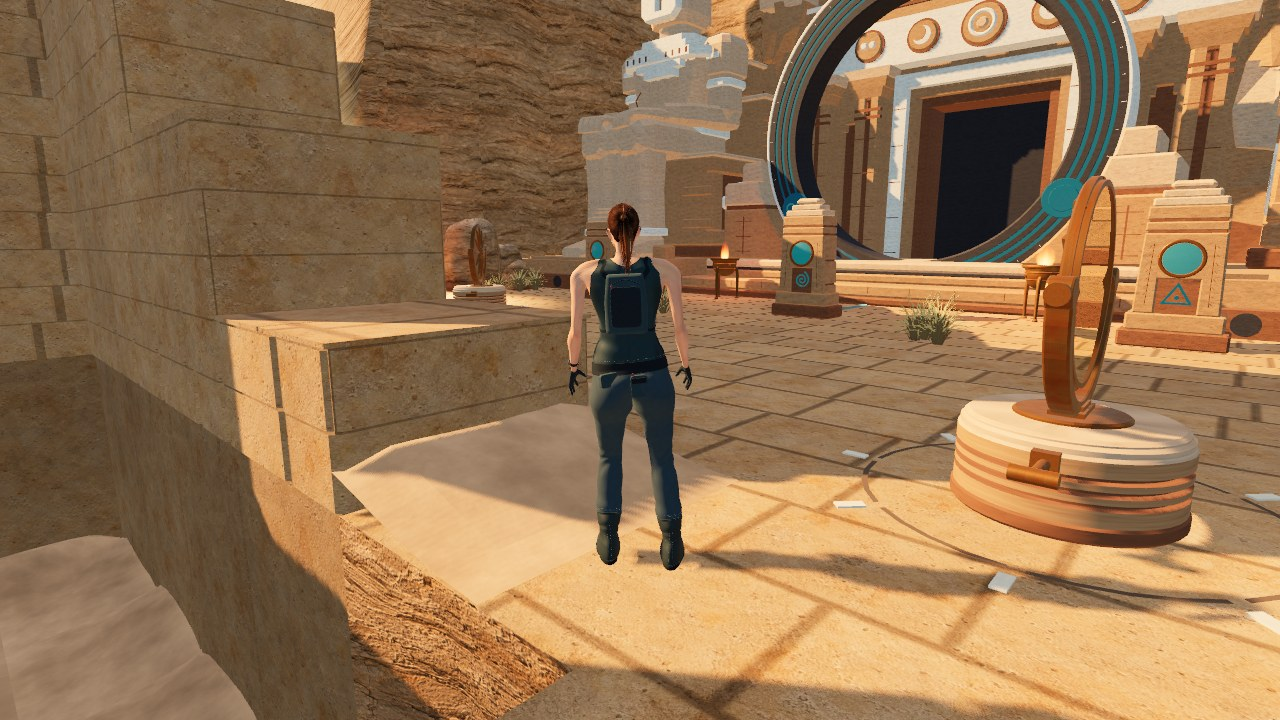
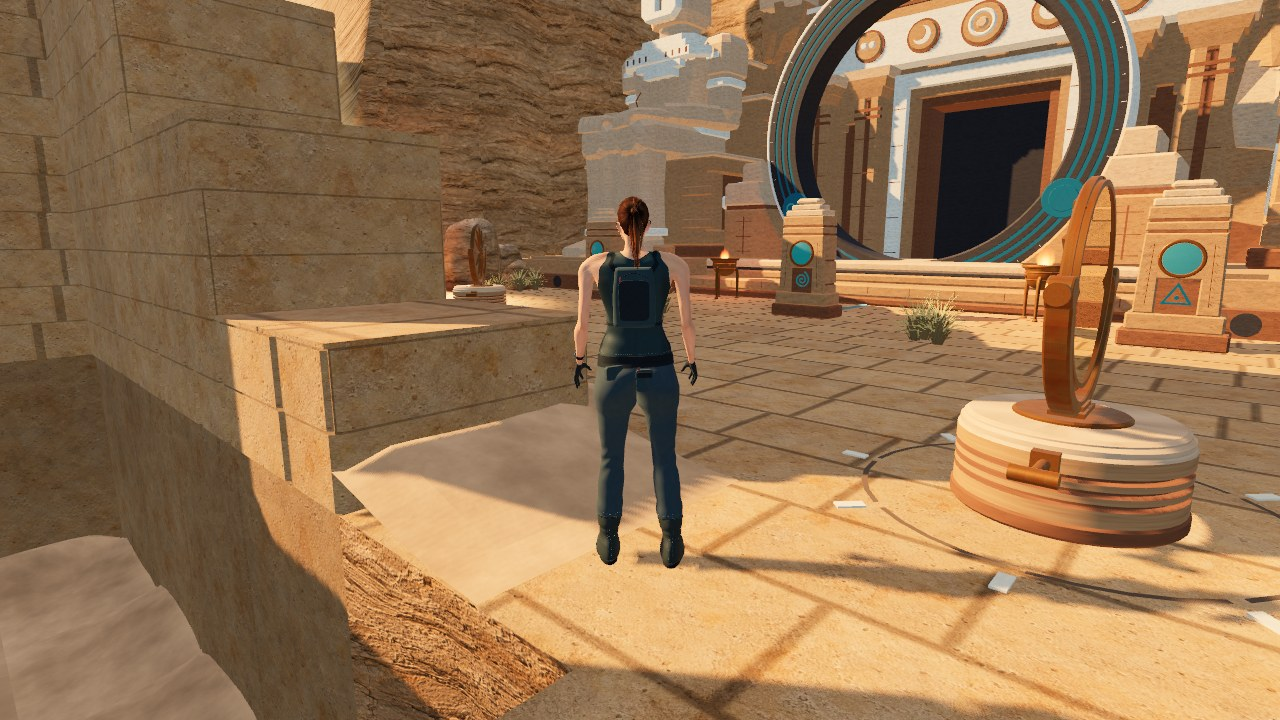
Straighten Nyra's knees at rest and lighten her weight shift

diff --git a/game/animation/locomotion.js b/game/animation/locomotion.js
@@ -154,15 +154,15 @@ export function locomotion(pose, root, hero, dt, { turnRate, accel }) {
     ((this.weightSide || 1) * idle - (this.weight || 0)) *
       (1 - Math.exp(-dt / 0.8));
   const weight = this.weight;
-  root.sway += 0.045 * weight;
-  add(pose, "hips", 0, 0, -0.1 * weight);
-  add(pose, "spine", idle * breathe, 0, 0.065 * weight);
+  root.sway += 0.02 * weight;
+  add(pose, "hips", 0, 0, -0.035 * weight);
+  add(pose, "spine", idle * breathe, 0, 0.022 * weight);
   add(
     pose,
     "head",
     -idle * breathe,
     idle * Math.sin(t * 0.37) * 0.1,
-    -0.012 * weight,
+    -0.008 * weight,
   );
   add(pose, "leftUpperArm", idle * Math.sin(t * 1.1) * 0.016);
   add(pose, "rightUpperArm", idle * Math.sin(t * 1.1 + 0.5) * 0.016, 0, 0);

diff --git a/game/animation/feet.js b/game/animation/feet.js
@@ -764,8 +764,11 @@ export const feet = {
       const hip = leg.upper.getWorldPosition(new THREE.Vector3()),
         knee = leg.lower.getWorldPosition(new THREE.Vector3()),
         ankle = leg.foot.getWorldPosition(new THREE.Vector3());
+      // A little slack keeps the stride's knees soft; standing, she straightens all but 3 mm.
       const length =
-        hip.distanceTo(knee) + knee.distanceTo(ankle) - mix(0.012, 0.009, run);
+        hip.distanceTo(knee) +
+        knee.distanceTo(ankle) -
+        mix(mix(0.003, 0.012, moving), 0.009, run);
       const destination = at
         .clone()
         .sub(leg.palm.clone().applyQuaternion(rotation));

diff --git a/receipts/verification-idle-posture/README.md b/receipts/verification-idle-posture/README.md
@@ -13,11 +13,15 @@ The owner compared Nyra standing still with a reference frame from another game,
 ## What changed
 
 - `game/animation/feet.js`: at rest the feet plant 0.32 m apart (`STANCE`, half the distance) instead of the legs' own 0.2 m, the left a little ahead, both turned out a little; once she has stood still for 0.6 s, a foot more than 5 cm short of that base steps out to it, one foot at a time.
-- `game/animation/locomotion.js`: standing, she settles her weight on one leg and moves it to the other every 6 to 13 s (a deterministic draw), easing over about a second: her hips shift 4.5 cm over the standing leg and drop on the free side, and her spine and head lean back towards level. The idle sway that rocked her hips continuously is gone. Her arms hang 0.08 rad further out and her elbows bend 0.2 rad more.
+- `game/animation/locomotion.js`: standing, she settles her weight on one leg and moves it to the other every 6 to 13 s (a deterministic draw), easing over about a second: her hips shift over the standing leg and drop a little on the free side, and her spine and head lean back towards level. The idle sway that rocked her hips continuously is gone. Her arms hang 0.08 rad further out and her elbows bend 0.2 rad more.
+
+## Straight knees, a lighter shift
+
+The owner still found her crooked at rest, and the first pass showed why: standing, both knees bent about 20°. The feet's solve lowers the hips until each stance leg is 12 mm short of straight (`feet.js`), slack that keeps the stride's knees soft but left her half crouched when still. Standing, the slack is now 3 mm, so the standing leg bends about 10° and the free one about 19°, against 20° and 21° before ([public release](data/joints-before-public.json), [after](data/joints-after.json)). The weight shift is lighter too: the hips move 2 cm over the standing leg and drop 2° on the free side, the spine and head lean back by about half that. [Before and after](frames/compare-straight-knees.jpg): behind, then the side.
 
 ## Results
 
-Measured in the model's frame ([public release](data/before-public.json), [after](data/after.json)): the feet stand 0.31 m apart instead of 0.20, the hands hang 0.26 to 0.30 m out from the centre instead of 0.24, the elbows bend 30° instead of 19°, and the hips sit 1.8 cm over the standing leg. Frames: [behind](frames/back-after.jpg) and [three quarters](frames/three-quarter-after.jpg), against [behind](frames/back-before.jpg) and [three quarters](frames/three-quarter-before.jpg) before. The [animation contracts](data/animation-check.json) pass 62 of 62, the stride, turning, landing and support checks among them.
+Measured in the model's frame ([public release](data/before-public.json), [after](data/after.json)): the feet stand 0.31 m apart instead of 0.20, the hands hang 0.26 to 0.30 m out from the centre instead of 0.24, the elbows bend 30° instead of 19°, and the hips sit over the standing leg. Frames: [behind](frames/back-after.jpg), [three quarters](frames/three-quarter-after.jpg) and [side](frames/side-after.jpg), against [behind](frames/back-before.jpg), [three quarters](frames/three-quarter-before.jpg) and [side](frames/side-before.jpg) before. The [animation contracts](data/animation-check.json) pass 62 of 62, the stride, turning, landing and support checks among them.
 
 ## Not checked
 
